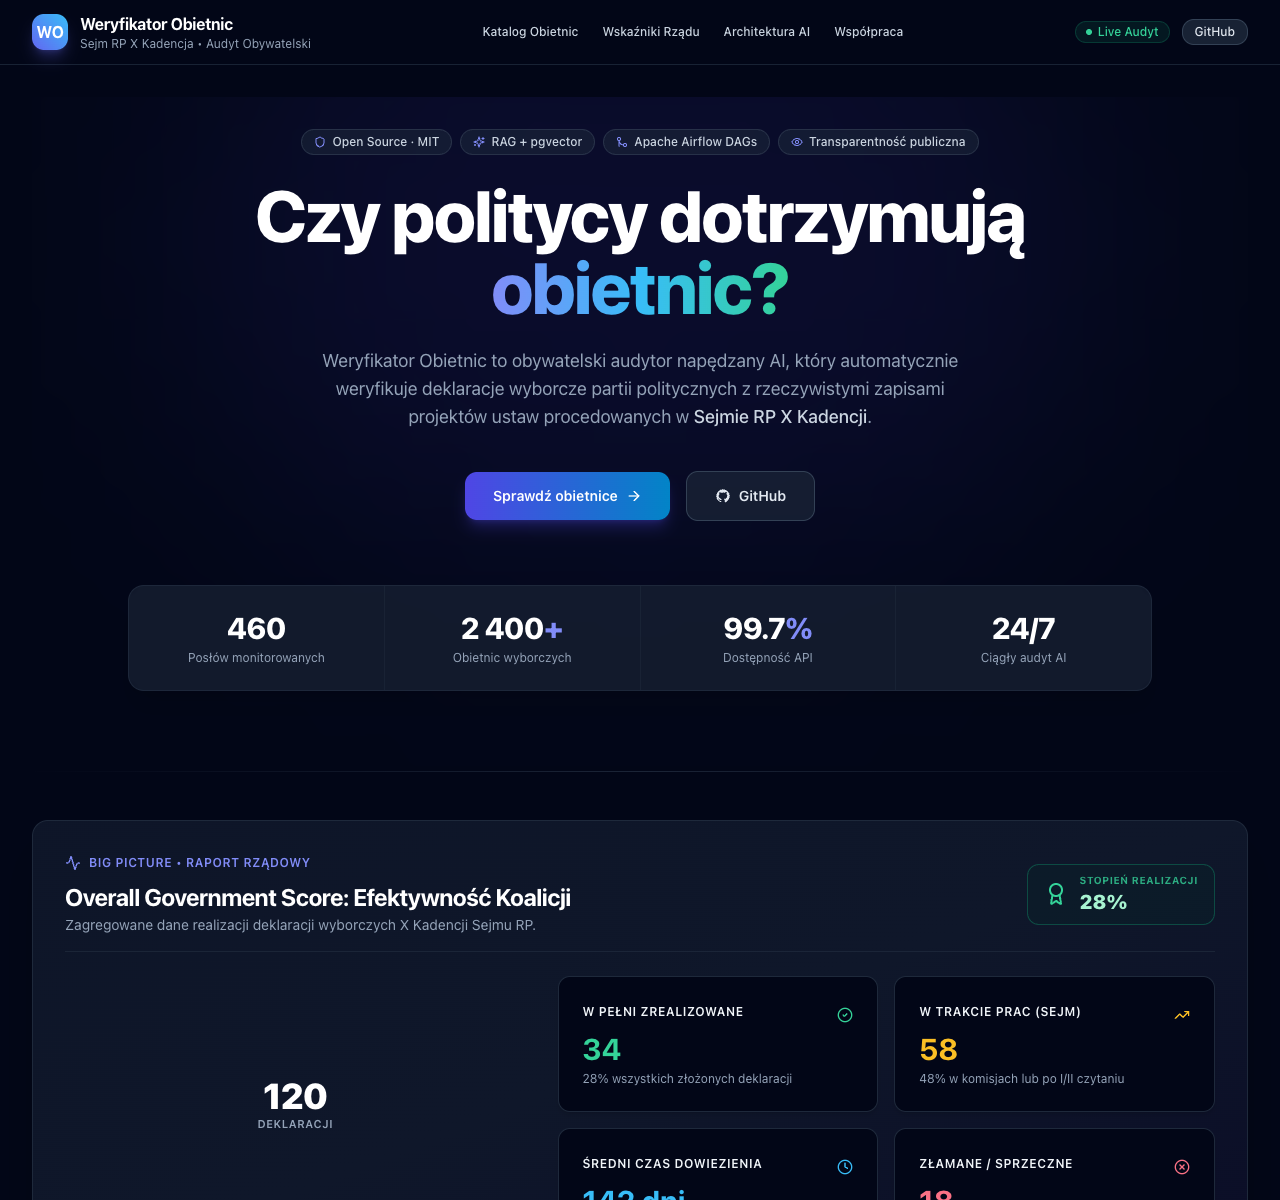
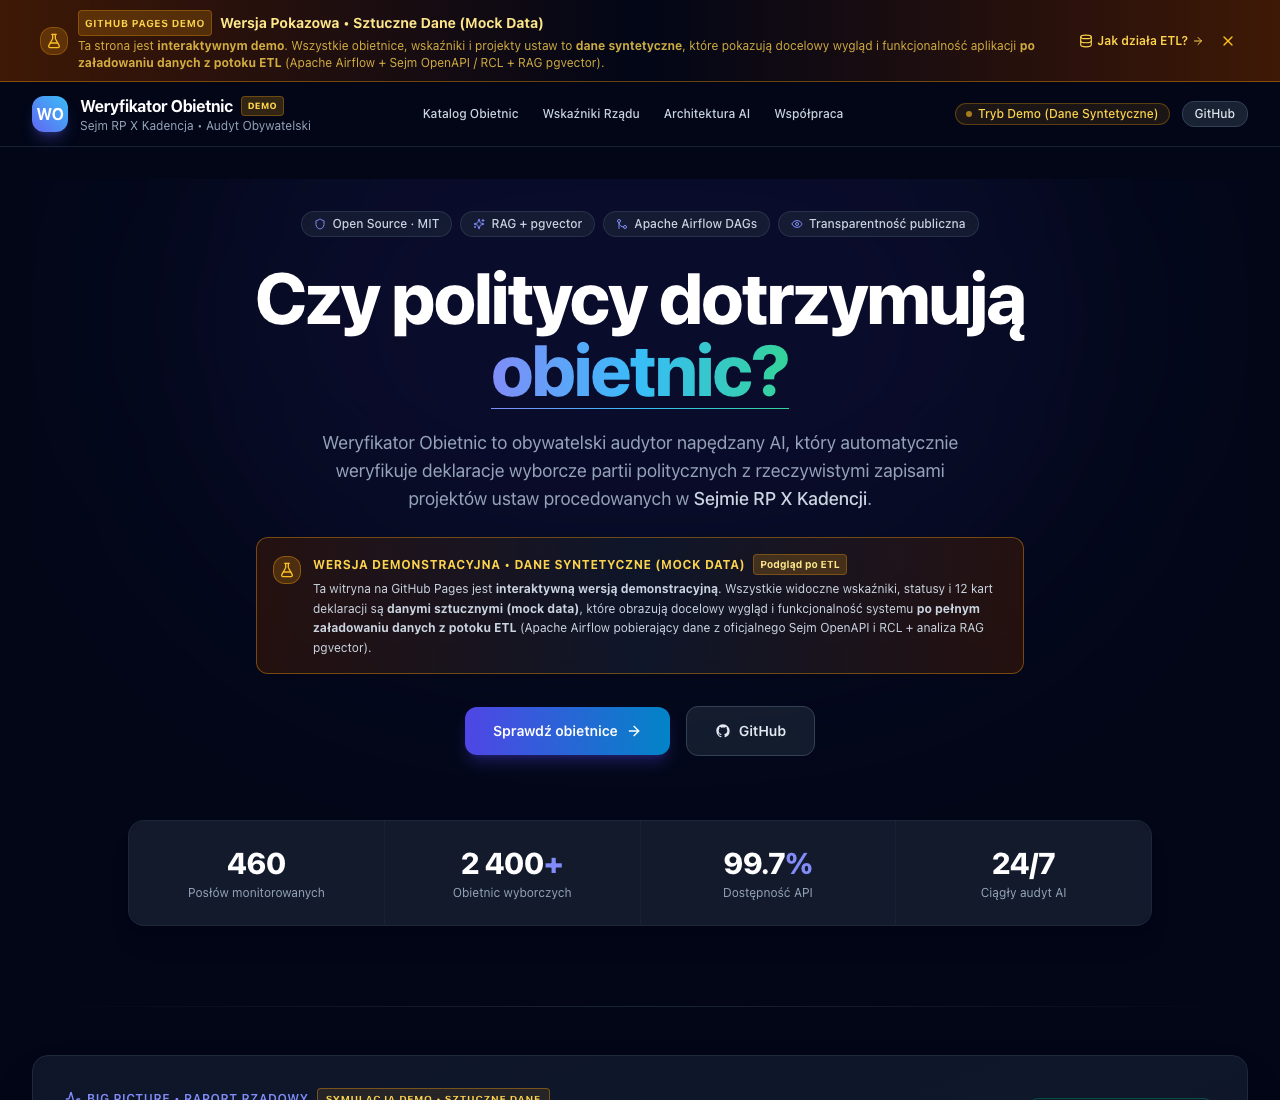
feat(demo): explicitly mark GitHub Pages as demo with synthetic mock data after ETL

diff --git a/frontend/src/components/DemoBanner.tsx b/frontend/src/components/DemoBanner.tsx
@@ -1,0 +1,65 @@
+"use client";
+
+import React, { useState } from "react";
+import { FlaskConical, Database, ArrowRight, X, Sparkles } from "lucide-react";
+
+export function DemoBanner() {
+  const [closed, setClosed] = useState(false);
+
+  if (closed) {
+    return (
+      <aside aria-label="Wskaźnik trybu demonstracyjnego" className="border-b border-amber-500/30 bg-amber-950/40 px-4 py-1.5 text-center text-xs text-amber-300">
+        <span className="font-semibold">⚠ TRYB DEMO:</span> Prezentowane dane są sztuczne (Mock Data po ETL).{" "}
+        <button
+          onClick={() => setClosed(false)}
+          className="underline hover:text-amber-100 ml-2 font-medium"
+        >
+          Rozwiń szczegóły
+        </button>
+      </aside>
+    );
+  }
+
+  return (
+    <aside aria-label="Komunikat trybu demonstracyjnego" className="relative z-50 border-b border-amber-500/40 bg-gradient-to-r from-amber-950/90 via-slate-950 to-amber-950/90 px-4 py-2.5 text-amber-200 shadow-md">
+      <div className="container mx-auto flex max-w-7xl flex-col sm:flex-row sm:items-center justify-between gap-3 text-xs sm:text-sm">
+        <div className="flex items-start sm:items-center gap-2.5">
+          <div className="flex h-7 w-7 shrink-0 items-center justify-center rounded-lg bg-amber-500/20 text-amber-400 border border-amber-500/30">
+            <FlaskConical className="h-4 w-4" />
+          </div>
+          <div>
+            <div className="flex items-center gap-2">
+              <span className="inline-block rounded bg-amber-500/20 px-1.5 py-0.5 text-[10px] font-bold uppercase tracking-wider text-amber-300 border border-amber-500/30">
+                GitHub Pages Demo
+              </span>
+              <span className="font-bold text-amber-200">
+                Wersja Pokazowa • Sztuczne Dane (Mock Data)
+              </span>
+            </div>
+            <p className="mt-0.5 text-xs text-amber-300/80 leading-snug">
+              Ta strona jest <strong>interaktywnym demo</strong>. Wszystkie obietnice, wskaźniki i projekty ustaw to <strong>dane syntetyczne</strong>, które pokazują docelowy wygląd i funkcjonalność aplikacji <strong>po załadowaniu danych z potoku ETL</strong> (Apache Airflow + Sejm OpenAPI / RCL + RAG pgvector).
+            </p>
+          </div>
+        </div>
+
+        <div className="flex items-center gap-3 shrink-0 self-end sm:self-center">
+          <a
+            href="#architektura"
+            className="inline-flex items-center gap-1 text-xs font-semibold text-amber-300 hover:text-amber-100 transition-colors"
+          >
+            <Database className="h-3.5 w-3.5" />
+            <span>Jak działa ETL?</span>
+            <ArrowRight className="h-3 w-3" />
+          </a>
+          <button
+            onClick={() => setClosed(true)}
+            aria-label="Zwiń baner demo"
+            className="rounded p-1 text-amber-400 hover:bg-amber-500/20 hover:text-amber-200 transition"
+          >
+            <X className="h-4 w-4" />
+          </button>
+        </div>
+      </div>
+    </aside>
+  );
+}

diff --git a/frontend/src/app/layout.tsx b/frontend/src/app/layout.tsx
@@ -28,6 +28,8 @@ export const viewport: Viewport = {
   maximumScale: 5,
 };
 
+import { DemoBanner } from "@/components/DemoBanner";
+
 export default function RootLayout({
   children,
 }: {
@@ -37,6 +39,7 @@ export default function RootLayout({
     <html lang="pl" className="dark">
       <body className="min-h-screen bg-slate-950 font-sans text-slate-100 antialiased selection:bg-indigo-500 selection:text-white">
         <Providers>
+          <DemoBanner />
           <header className="sticky top-0 z-40 border-b border-slate-800/80 bg-slate-950/80 backdrop-blur-md">
             <div className="container mx-auto flex h-16 max-w-7xl items-center justify-between px-4 sm:px-6 lg:px-8">
               <a href={`${prefix}/#`} className="flex items-center space-x-3 group">
@@ -44,9 +47,14 @@ export default function RootLayout({
                   WO
                 </div>
                 <div>
-                  <h1 className="text-sm font-bold tracking-tight text-white sm:text-base group-hover:text-indigo-300 transition-colors">
-                    Weryfikator Obietnic
-                  </h1>
+                  <div className="flex items-center gap-2">
+                    <h1 className="text-sm font-bold tracking-tight text-white sm:text-base group-hover:text-indigo-300 transition-colors">
+                      Weryfikator Obietnic
+                    </h1>
+                    <span className="rounded bg-amber-500/20 px-1.5 py-0.5 text-[9px] font-extrabold uppercase text-amber-300 border border-amber-500/30 tracking-wide">
+                      Demo
+                    </span>
+                  </div>
                   <p className="text-[10px] text-slate-400 sm:text-xs">
                     Sejm RP X Kadencja • Audyt Obywatelski
                   </p>
@@ -70,9 +78,9 @@ export default function RootLayout({
               </nav>
 
               <div className="flex items-center space-x-3">
-                <span className="inline-flex items-center rounded-full bg-emerald-500/10 px-2.5 py-0.5 text-xs font-medium text-emerald-400 border border-emerald-500/20">
-                  <span className="mr-1.5 h-1.5 w-1.5 rounded-full bg-emerald-400 animate-pulse" />
-                  Live Audyt
+                <span className="inline-flex items-center rounded-full bg-amber-500/10 px-2.5 py-0.5 text-xs font-medium text-amber-300 border border-amber-500/30">
+                  <span className="mr-1.5 h-1.5 w-1.5 rounded-full bg-amber-400 animate-pulse" />
+                  Tryb Demo (Dane Syntetyczne)
                 </span>
                 <a
                   href="https://github.com/FranekJemiolo/weryfikatorobietnic"

diff --git a/frontend/src/components/landing/HeroSection.tsx b/frontend/src/components/landing/HeroSection.tsx
@@ -1,7 +1,7 @@
 "use client";
 
 import { motion } from "framer-motion";
-import { ArrowRight, Shield, Sparkles, GitMerge, Eye } from "lucide-react";
+import { ArrowRight, Shield, Sparkles, GitMerge, Eye, FlaskConical } from "lucide-react";
 import Link from "next/link";
 
 const STATS = [
@@ -96,13 +96,41 @@ export function HeroSection() {
           <span className="text-slate-300 font-medium">Sejmie RP X Kadencji</span>.
         </motion.p>
 
+        {/* Demo Disclaimer Card */}
+        <motion.div
+          initial={false}
+          animate="visible"
+          variants={fadeUp}
+          custom={2.5}
+          className="mt-6 mx-auto max-w-3xl rounded-xl border border-amber-500/40 bg-gradient-to-r from-amber-950/50 via-slate-900/90 to-amber-950/50 p-4 text-left shadow-lg backdrop-blur-md"
+        >
+          <div className="flex items-start gap-3">
+            <div className="mt-0.5 flex h-7 w-7 shrink-0 items-center justify-center rounded-lg bg-amber-500/20 text-amber-400 border border-amber-500/40">
+              <FlaskConical className="h-4 w-4" />
+            </div>
+            <div className="space-y-1">
+              <div className="flex flex-wrap items-center gap-2">
+                <span className="text-xs font-bold uppercase tracking-wider text-amber-300">
+                  Wersja Demonstracyjna • Dane Syntetyczne (Mock Data)
+                </span>
+                <span className="rounded bg-amber-500/20 px-1.5 py-0.5 text-[10px] font-bold text-amber-200 border border-amber-500/30">
+                  Podgląd po ETL
+                </span>
+              </div>
+              <p className="text-xs text-slate-300 leading-relaxed">
+                Ta witryna na GitHub Pages jest <strong>interaktywną wersją demonstracyjną</strong>. Wszystkie widoczne wskaźniki, statusy i 12 kart deklaracji są <strong>danymi sztucznymi (mock data)</strong>, które obrazują docelowy wygląd i funkcjonalność systemu <strong>po pełnym załadowaniu danych z potoku ETL</strong> (Apache Airflow pobierający dane z oficjalnego Sejm OpenAPI i RCL + analiza RAG pgvector).
+              </p>
+            </div>
+          </div>
+        </motion.div>
+
         {/* CTA buttons */}
         <motion.div
           initial={false}
           animate="visible"
           variants={fadeUp}
           custom={3}
-          className="mt-10 flex flex-col sm:flex-row items-center justify-center gap-4"
+          className="mt-8 flex flex-col sm:flex-row items-center justify-center gap-4"
         >
           <a
             href="#katalog"

diff --git a/frontend/src/components/PromisesCatalog.tsx b/frontend/src/components/PromisesCatalog.tsx
@@ -65,15 +65,20 @@ export function PromisesCatalog({ initialPromises = [] }: PromisesCatalogProps) 
       <FilterBar onFiltersChange={setFilters} />
 
       {/* Nagłówek wyników ze wskaźnikiem liczby znalezionych pozycji */}
-      <div className="flex items-center justify-between px-1">
+      <div className="flex flex-wrap items-center justify-between gap-3 px-1">
         <div>
-          <h2 className="text-xl sm:text-2xl font-bold tracking-tight text-white">
-            {isFiltering ? "Wyniki Wyszukiwania" : "Zarejestrowane Deklaracje Wyborcze"}
-          </h2>
-          <p className="text-xs sm:text-sm text-slate-400">
+          <div className="flex flex-wrap items-center gap-2">
+            <h2 className="text-xl sm:text-2xl font-bold tracking-tight text-white">
+              {isFiltering ? "Wyniki Wyszukiwania" : "Katalog Deklaracji Wyborczych"}
+            </h2>
+            <span className="rounded border border-amber-500/40 bg-amber-500/10 px-2 py-0.5 text-[10px] font-bold uppercase tracking-wider text-amber-300">
+              Demo • Mock Data po ETL
+            </span>
+          </div>
+          <p className="text-xs sm:text-sm text-slate-400 mt-0.5">
             {isFiltering
-              ? `Znaleziono ${totalCount} obietnic spełniających kryteria filtrów`
-              : `Łącznie zarejestrowanych obietnic w systemie: ${totalCount}`}
+              ? `Znaleziono ${totalCount} obietnic spełniających kryteria filtrów (przykładowy zbiór demonstracyjny)`
+              : `Zestaw demonstracyjny 12 przykładowych obietnic ilustrujących klasyfikację RAG i statusy po załadowaniu danych przez ETL.`}
           </p>
         </div>
       </div>

diff --git a/frontend/src/components/GovernmentScoreDashboard.tsx b/frontend/src/components/GovernmentScoreDashboard.tsx
@@ -153,15 +153,20 @@ export function GovernmentScoreDashboard({ initialData }: GovernmentScoreDashboa
       {/* Nagłówek Panelu */}
       <div className="flex flex-wrap items-center justify-between gap-4 border-b border-slate-800/80 pb-4">
         <div>
-          <div className="inline-flex items-center gap-2 text-xs font-semibold uppercase tracking-wider text-indigo-400">
-            <Activity className="h-4 w-4" />
-            <span>Big Picture • Raport Rządowy</span>
+          <div className="flex flex-wrap items-center gap-2 text-xs font-semibold uppercase tracking-wider text-indigo-400">
+            <span className="inline-flex items-center gap-1.5">
+              <Activity className="h-4 w-4" />
+              Big Picture • Raport Rządowy
+            </span>
+            <span className="rounded border border-amber-500/40 bg-amber-500/10 px-2 py-0.5 text-[10px] font-bold text-amber-300">
+              SYMULACJA DEMO • SZTUCZNE DANE
+            </span>
           </div>
           <h2 className="text-xl sm:text-2xl font-bold tracking-tight text-white mt-1">
             Overall Government Score: Efektywność Koalicji
           </h2>
           <p className="text-xs sm:text-sm text-slate-400 mt-0.5">
-            Zagregowane dane realizacji deklaracji wyborczych X Kadencji Sejmu RP.
+            Wskaźniki pokazowe (dane syntetyczne obrazujące docelowy raport po automatycznym wyliczeniu przez potok ETL Apache Airflow).
           </p>
         </div>
 

diff --git a/frontend/src/components/PromiseCard.tsx b/frontend/src/components/PromiseCard.tsx
@@ -142,6 +142,9 @@ export function PromiseCard({
             <span className="text-xs text-slate-400 font-medium">
               {category}
             </span>
+            <span className="rounded bg-amber-500/10 px-1.5 py-0.5 text-[10px] font-medium text-amber-300/80 border border-amber-500/20">
+              Mock ETL
+            </span>
           </div>
           <div className="flex items-center gap-2">
             <SubscribeButton

diff --git a/README.md b/README.md
@@ -12,8 +12,11 @@
 
 🌐 **[Demo Landing Page → https://FranekJemiolo.github.io/weryfikatorobietnic](https://FranekJemiolo.github.io/weryfikatorobietnic)**
 
+> ⚠ **INFORMACJA O WERSJI DEMO:**
+> Wersja wdrożona na GitHub Pages jest **interaktywnym DEMO (Preview)** opartym o **dane syntetyczne (Mock Data)**. Prezentuje ona docelowy wygląd i interakcję interfejsu użytkownika po pełnym załadowaniu danych z produkcyjnego potoku **ETL Apache Airflow** (zasilającego bazę PostgreSQL + pgvector z oficjalnych API Sejmu RP i RCL).
+
 <p align="center">
-  <img src="docs/screenshot.png" alt="Weryfikator Obietnic - Interfejs Obywatelskiego Audytu" width="100%">
+  <img src="docs/screenshot.png" alt="Weryfikator Obietnic - Interfejs Obywatelskiego Audytu (Wersja Demo)" width="100%">
 </p>
 
 ---
